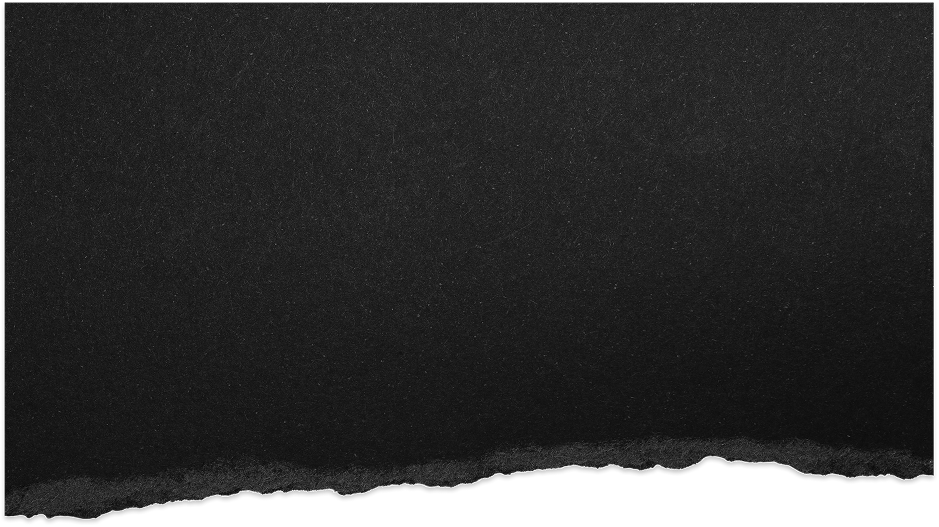
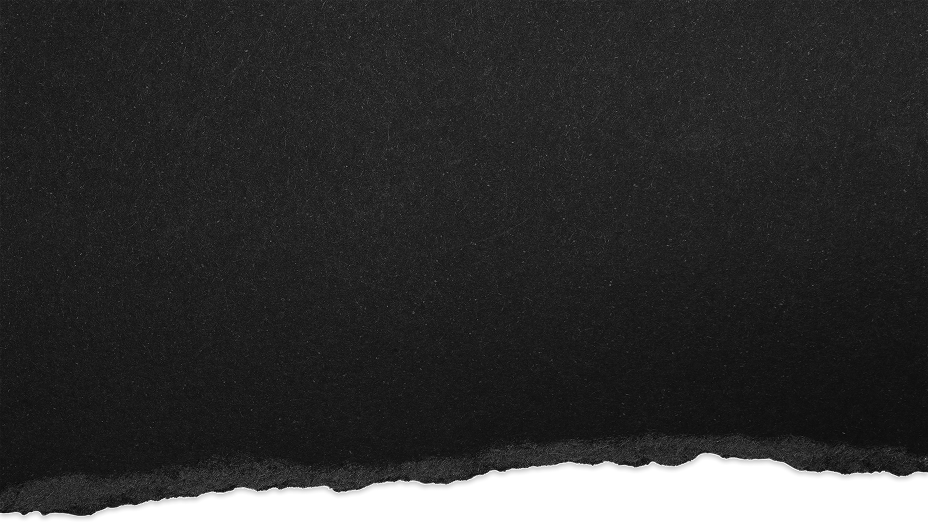
background images fixed

diff --git a/src/app/sections/skill-set/skill-set.scss b/src/app/sections/skill-set/skill-set.scss
@@ -11,11 +11,10 @@
   height: auto;
   background-image: url('/img/background/03_Skills1.png');
   background-size: cover;
-  background-position: top;
   display: flex;
   justify-content: center;
   align-items: center;
-  padding: 80px 0;
+  // padding: 80px 0;
 }
 
 .main-layout {

diff --git a/src/app/app.scss b/src/app/app.scss
@@ -3,11 +3,11 @@
   flex-direction: column;
   align-items: center;
   min-height: 100vh;
-  width: 100vw;
+  width: 100%;
 }
 
 app-header {
-  width: 100vw;
+  width: 100%;
   max-width: 1920px;
 }
 
